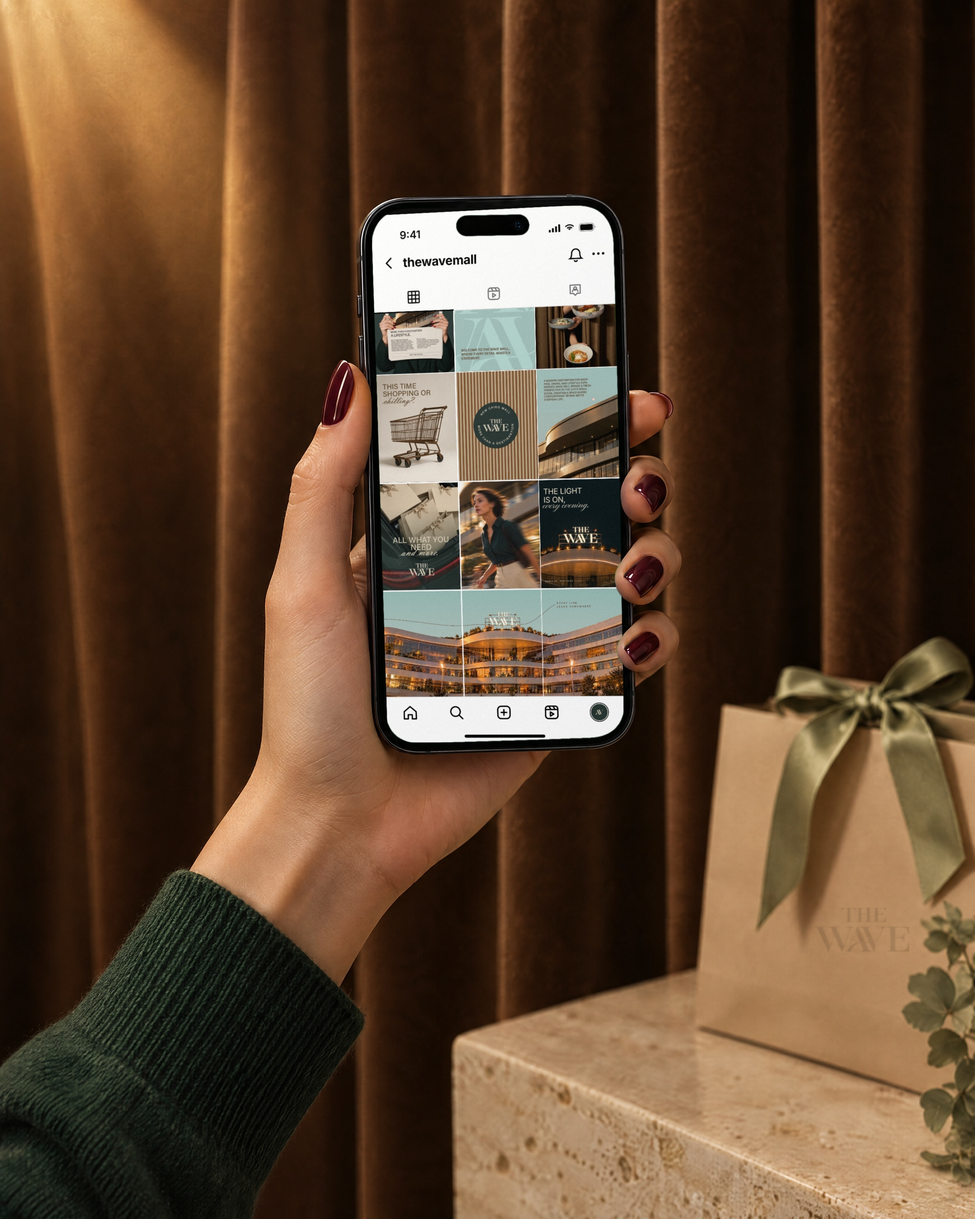
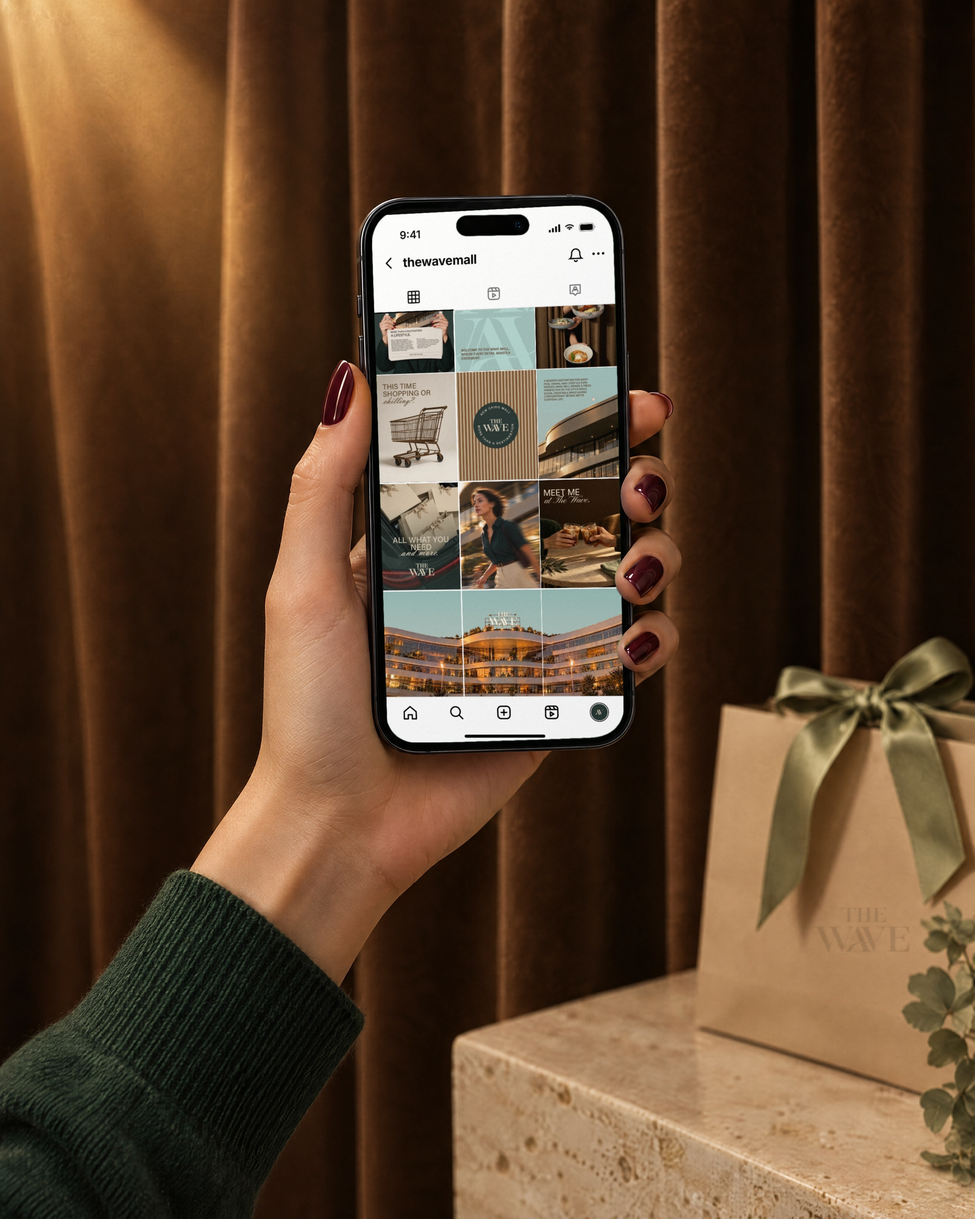
Instagram: clean panorama without text or line; new post 4, Meet me at The Wave
Claude-Session: https://claude.ai/code/session_0142AMHowNKcEFnnjpkxJwpv

Changed region(s): [[0.5312, 0.375, 0.6562, 0.5]]

diff --git a/instagram/grid-v4/GRID-GUIDE.md b/instagram/grid-v4/GRID-GUIDE.md
@@ -2,8 +2,7 @@
 
 The feed opens with one picture split across three posts: the real Wave at golden hour, edge to edge. The building and the rooftop THE WAVE sign are from our photograph of the mall, with the sky set to the brand mint.
 
-- One fine line enters from the left, passes behind the rooftop sign and ends at a small caption in the sky: EVERY LINE / LEADS SOMEWHERE.
-- A version with no text and no line is in the `silent` folder.
+- No text and no line: the building and its rooftop sign say it all.
 
 Above the panorama sit the nine single posts, as a 3×3 grid.
 
@@ -11,23 +10,23 @@ Above the panorama sit the nine single posts, as a 3×3 grid.
 | --- | --- | --- | --- |
 | Row 1 | 12 · Newspaper | 11 · More than a destination | 10 · Lunch or dinner |
 | Row 2 | 9 · Shopping or chilling | 8 · The badge | 7 · The building |
-| Row 3 | 6 · Everything you need | 5 · The woman | 4 · The light is on |
+| Row 3 | 6 · Everything you need | 5 · The woman | 4 · Meet me at The Wave |
 | Row 4 | 3 · WHERE EVERY | 2 · LINE | 1 · *leads somewhere.* |
 
-**Post in order 1 → 12.** The panorama is posts 1–3. Publish them a few minutes apart, right part first (`post-01`), then the middle (`post-02`), then the left (`post-03`). The panorama only lines up when the number of posts after it is a multiple of three, which is why there are 9 single posts above it.
+**Post in order 1 → 12.** The panorama is posts 1–3. Publish them a few minutes apart, right part first (`post-01-panorama-right`), then the middle (`post-02-panorama-middle`), then the left (`post-03-panorama-left`). The panorama only lines up when the number of posts after it is a multiple of three, which is why there are 9 single posts above it.
 
 ## Upload settings
 
 - Posts 1–3 are **1080 × 1440 (3:4)**. In the cropping step choose **3:4** (or "original"), not 4:5 or 1:1, so the three parts meet exactly on the profile.
 - Your own 8 posts and post 4 are 1080 × 1350 (4:5). The profile grid shows them cropped to 3:4.
-- Don't add filters or edits in the app: the line and the type have to meet across the posts.
+- Don't add filters or edits in the app: the three panorama posts have to meet exactly.
 
 ## Text on each post
 
-1. **post-01 · right:** EVERY LINE / LEADS SOMEWHERE (small, widely spaced capitals)
-2. **post-02 · middle:** no text (the real rooftop sign)
-3. **post-03 · left:** no text (the left wing of the building)
-4. **post-04 · the light is on:** THE LIGHT / IS ON, / *every evening.* · NORTH 90 · NEW CAIRO
+1. **post-01 · panorama right:** no text
+2. **post-02 · panorama middle:** no text (the real rooftop sign)
+3. **post-03 · panorama left:** no text
+4. **post-04 · meet me:** MEET ME / *at The Wave.*
 5. **The woman:** no text
 6. **Bags:** EVERYTHING YOU NEED, / *and more.* · THE WAVE
 7. **The building:** A MODERN DESTINATION FOR SHOPPING, DINING AND LIFESTYLE. THE WAVE BRINGS A FRESH PERSPECTIVE TO NEW CAIRO, A PLACE WHERE CONTEMPORARY DESIGN MEETS EVERYDAY LIFE.
@@ -43,10 +42,10 @@ Above the panorama sit the nine single posts, as a 3×3 grid.
 
 ## Captions
 
-1. *…leads somewhere.* (1/3)
-2. *Every line…* (2/3)
+1. *The Wave, North 90.* (1/3)
+2. *New Cairo.* (2/3)
 3. *Where every line leads somewhere. The Wave, North 90, New Cairo.* (3/3: open the profile to see the whole picture.)
-4. *The light is on, every evening. The Wave, North 90.*
+4. *Meet me at The Wave. Coffee on the terrace, and wherever the evening takes you.*
 5. *Somewhere to be. Shopping, dining and long evenings, all in one place.*
 6. *Everything you need, and a little more. Wrapped, tied, and ready to take home.*
 7. *Curves, light and terraces made for long evenings. North 90, New Cairo.*
@@ -60,12 +59,12 @@ Hashtags on every post: `#TheWave #TheWaveMall #NewCairo #North90`
 
 ## Files
 
-- `post-01-leads-somewhere.jpg`, `post-02-line.jpg`, `post-03-where-every.jpg`: the panorama, ready to upload (1080 × 1440)
-- `post-04-the-light-is-on.jpg`: ready to upload (1080 × 1350)
+- `post-01-panorama-right.jpg`, `post-02-panorama-middle.jpg`, `post-03-panorama-left.jpg`: the panorama, ready to upload (1080 × 1440)
+- `post-04-meet-me.jpg`: ready to upload (1080 × 1350)
 - `opening-panorama-full.jpg`: the panorama in one piece (3240 × 1440)
 - `opening-triptych-board.jpg`: the three posts side by side, for presenting
 - `profile-preview.png`: the whole profile
 - `posting-order.png`: the profile numbered in posting order
 - `the-wave-grid-hero.jpg`: the campaign image
 
-The panorama is our real golden-hour photograph of The Wave (sky changed to mint, rooftop wordmark from the vector logo). The caption and the line were set by hand, so the type is exact. The follower numbers on the profile are placeholders.
+The panorama is our real golden-hour photograph of The Wave (sky changed to mint, rooftop wordmark from the vector logo). Post 4's scene was made with Higgsfield and its type set by hand, so the spelling is exact. The follower numbers on the profile are placeholders.
